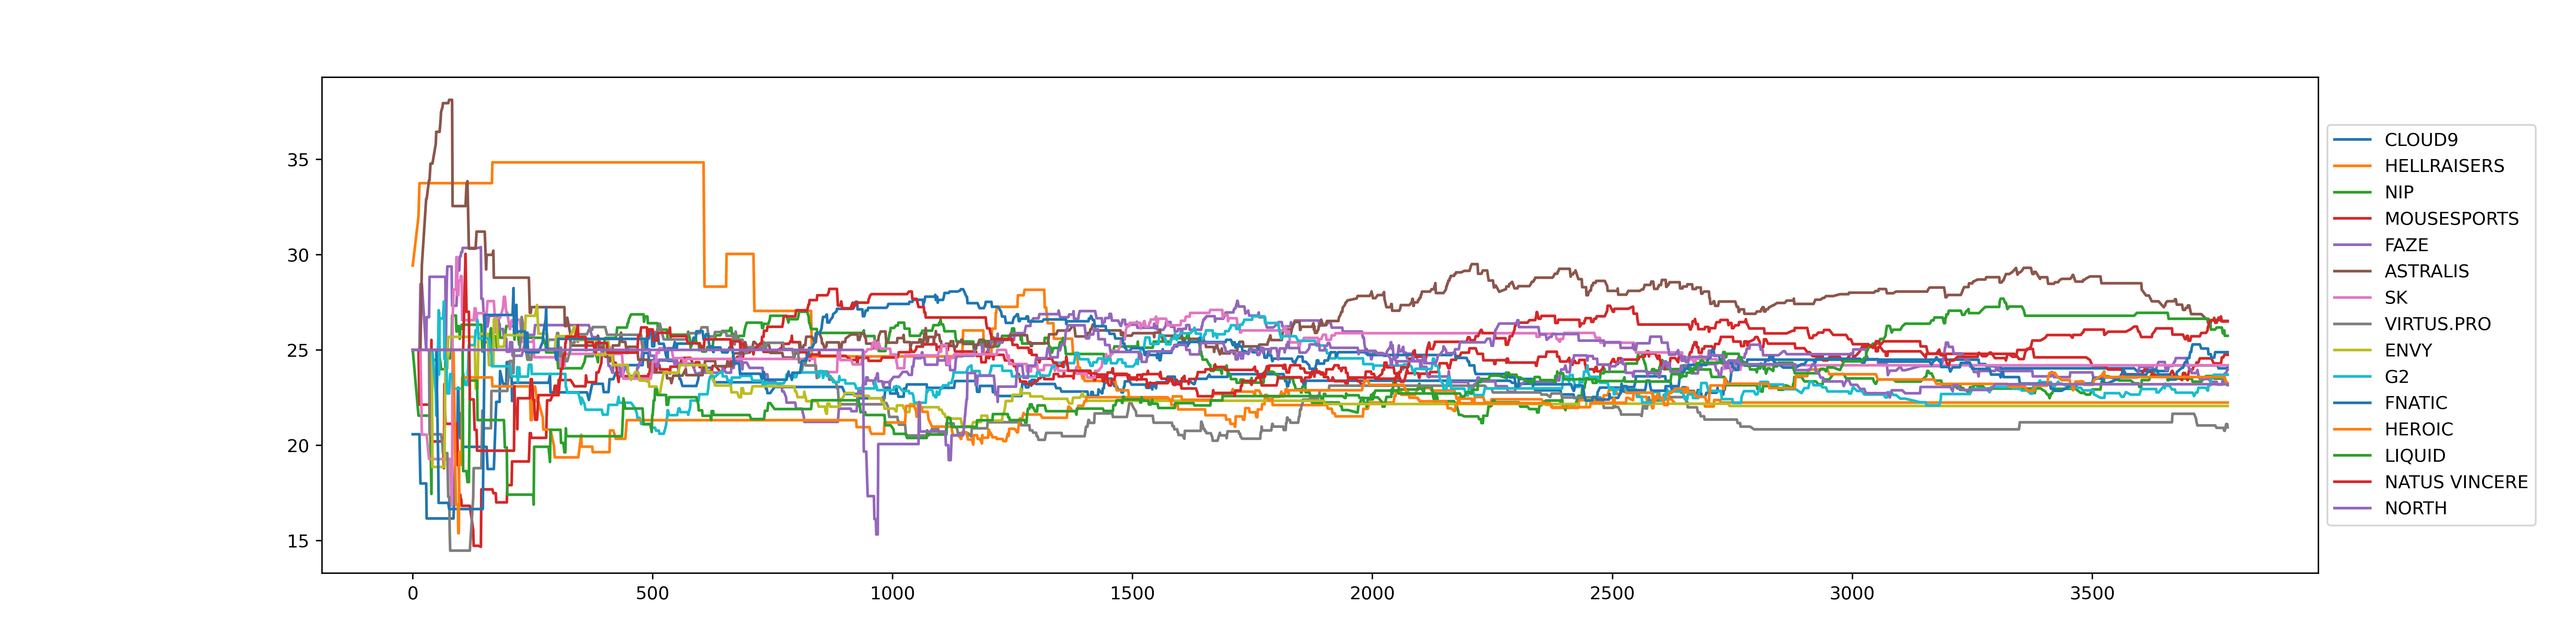
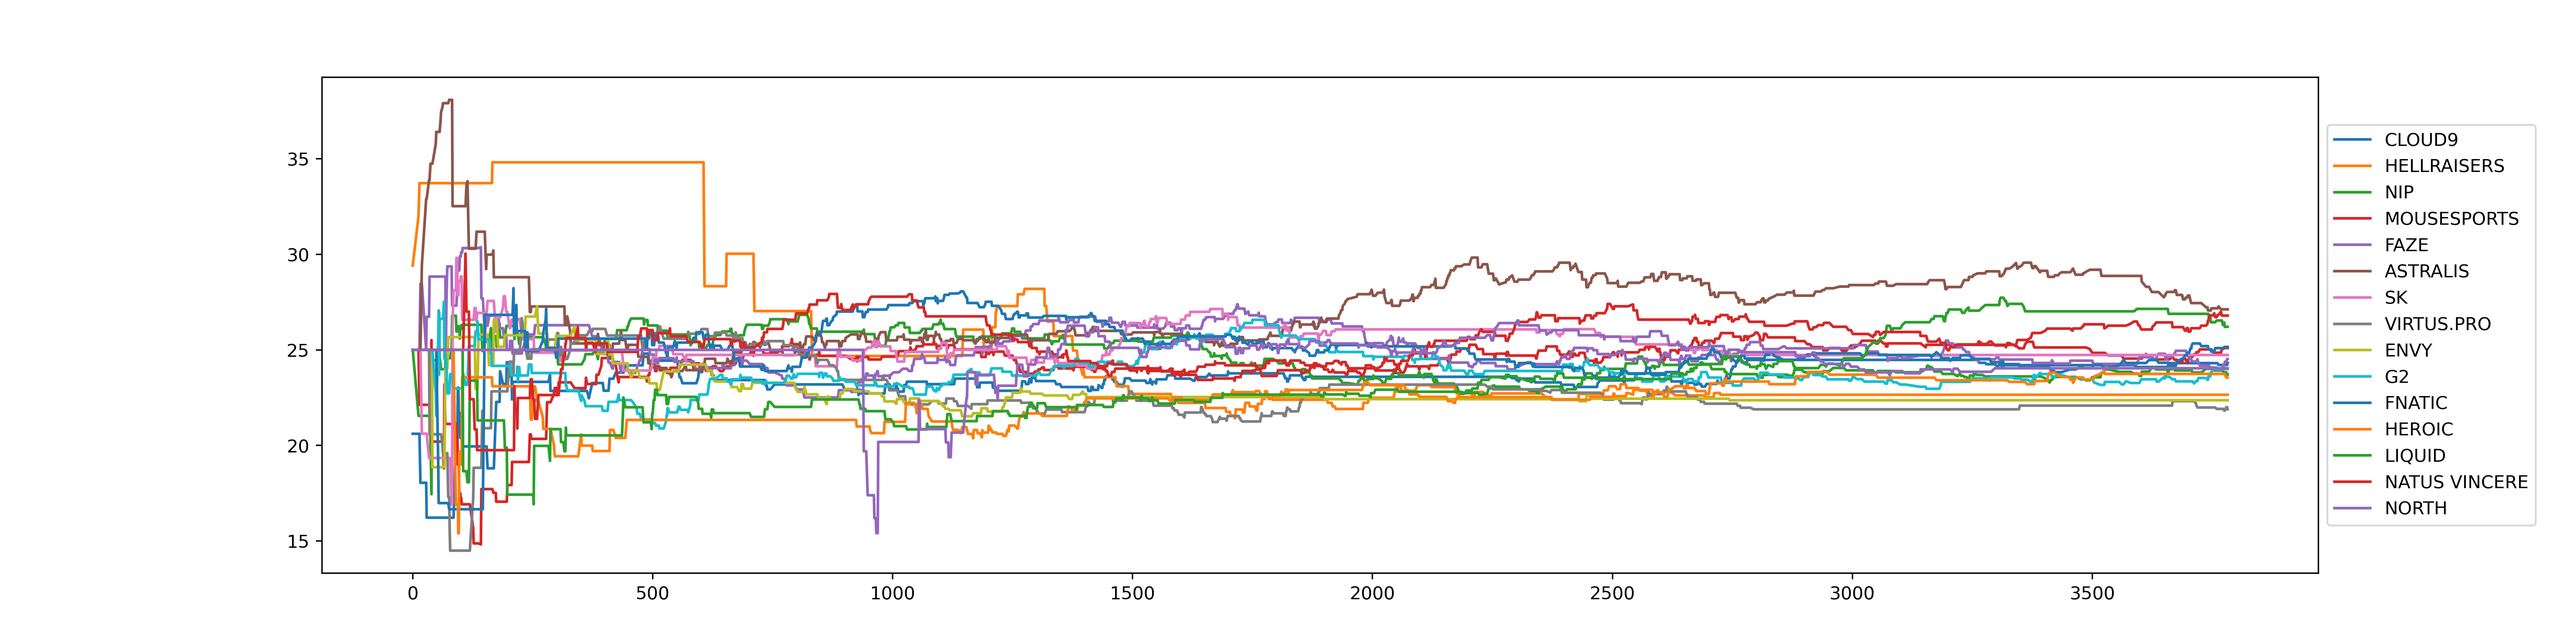
fixed rate-1vs1 oversight

Changed region(s): [[0.1875, 0.403, 0.875, 0.713]]

diff --git a/src/trueskillplus/__init__.py b/src/trueskillplus/__init__.py
@@ -183,17 +183,22 @@ class Trueskillplus(trueskill.TrueSkill):
     #TODO: 
     def rate_1vs1(self, rating1 : Rating_plus, rating2 : Rating_plus, stats = None, expected_stats = None):
        
+        #stats is already a calculated difference between teams, not their individual scores. TODO beware, change this maybe
         
-        #TODO: stats nál vedd az abszolut erteket es feltetelezd hogy winner eseten nagyobvb a s tat!
 
         if stats is not None and expected_stats is not None:
+            stats = abs(stats)
+            expected_stats=abs(expected_stats)
             
             rating_diff = abs(rating1.mu - rating2.mu)
-            stat_diff = abs(stats-expected_stats)
+            stat_diff_winner = stats-expected_stats
+            stat_diff_loser = expected_stats - stats
             #we would need to know the relation between +1 rating <-> +how much stats. should be a 'hyperparamener'
             #TODO ditch this if it doesnt perform well
             #add coeffs for both values maybe?
-            stat_offset = max(0, (stat_diff / (rating_diff + 1)) *  self.stat_coeff)
+
+            stat_offset_winner = max(0, (stat_diff_winner / (rating_diff + 1)) *  self.stat_coeff)
+            stat_offset_loser = max(0, (stat_diff_loser / (rating_diff + 1)) *  self.stat_coeff)
            
             
         else:
@@ -202,8 +207,8 @@ class Trueskillplus(trueskill.TrueSkill):
             
             
         
-        rating1 = trueskill.Rating(rating1.mu, rating1.sigma + stat_offset)
-        rating2 = trueskill.Rating(rating2.mu, rating2.sigma + stat_offset) #large diff means an upset happened, so sigma gets modified
+        rating1 = trueskill.Rating(rating1.mu, rating1.sigma + stat_offset_winner)
+        rating2 = trueskill.Rating(rating2.mu, rating2.sigma + stat_offset_loser) #large diff means an upset happened, so sigma gets modified
         #add experience_offset to ratings here
         return trueskill.rate_1vs1(rating1, rating2)
     
